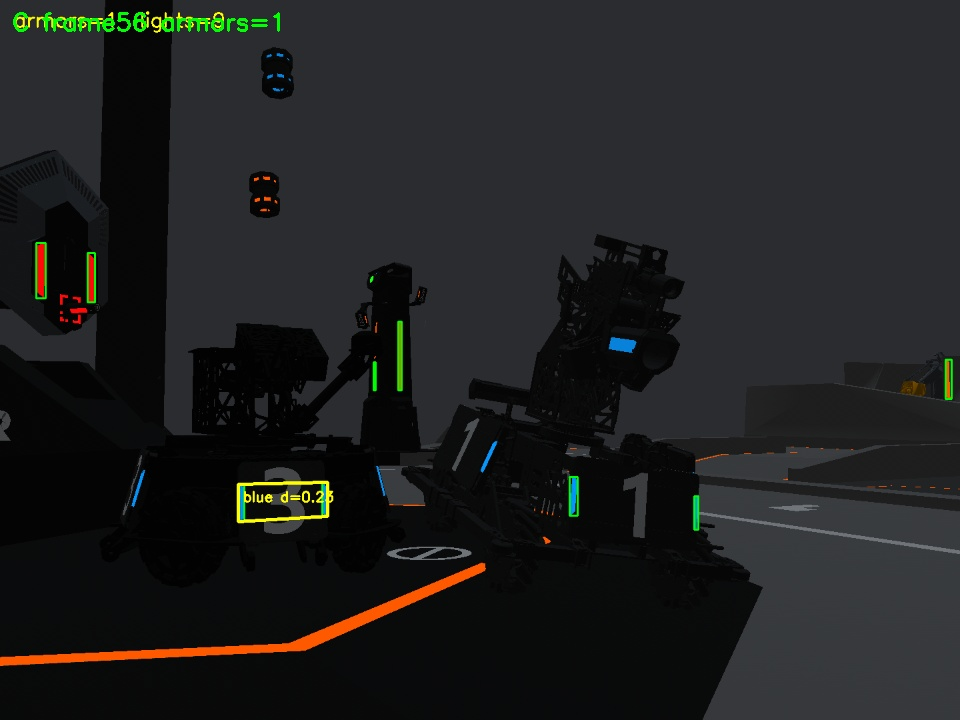
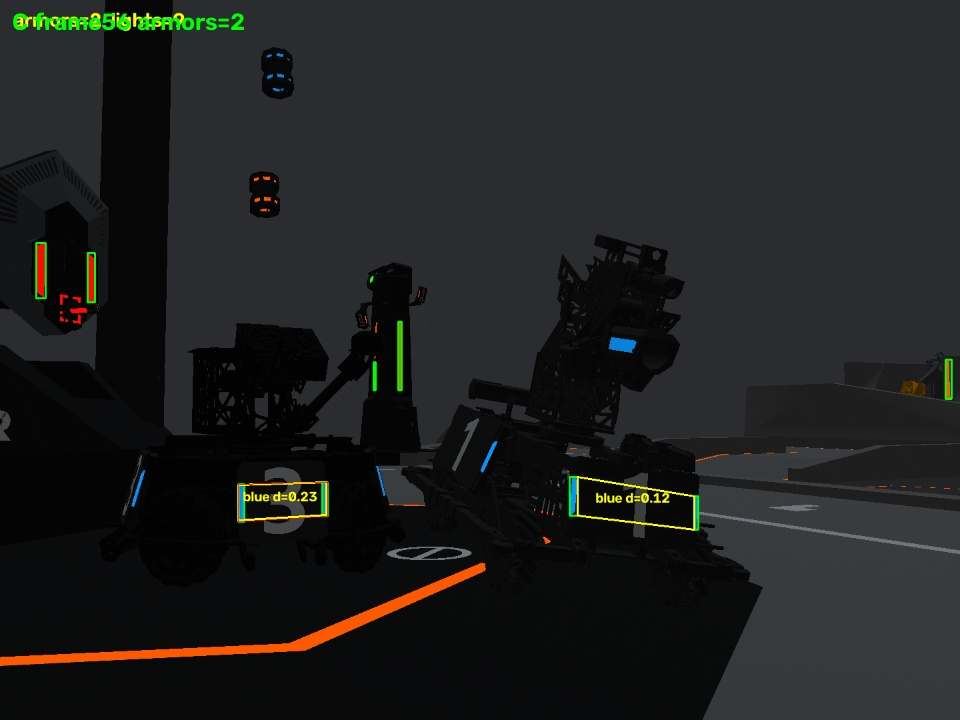
fix(S1): gap_ratio 3.0→4.2 + 灯宽一致性约束；E 检出率 18.3%→65.7%，真实链路闭环 38/38 全中
根因：斜视时装甲板投影变窄，两灯间距/高度比实测 3.29，被 gap_ratio 上限 3.0 卡掉
（灯条检到 6 个但配对 0 个 → live 检测率仅 ~2%）。

修改：
- DetectorParams.gap_ratio 上限 3.0 → 4.2
- 新增 max_dw=0.60（两灯宽度差/较宽者），控制放宽后的误检

效果（step=5 同 bag 对比）：
- E（大角度斜视）：18.3% → 65.7%（+47.4pp）
- A（同 bag 新旧参数）：89.1% → 93.1%；B/C/D 不变
- live 仿真场景检测率 ~2% → 99.9%

真实链路闭环实弹（不再真值驱动）：
detector_traditional → armor_solver(23.7Hz) → armor_tracker → trajectory_planner → fire
- 单发 20/20 = 100%，连发 18/18 = 100%，累计 38/38
→ 参考视频的“自瞄跟踪+开火+命中”效果已用我们自己的 ROS2 链路复现

指标 JSON：metrics/s1_traditional.json、metrics/s4_planner.json（live_sim_real_chain）
README：S1 数据表/失败场景、S4 真实链路表、I7/I8、录屏前开 preview 说明

diff --git a/vision_ws/src/rm_vision_probe/rm_vision_probe/detector.py b/vision_ws/src/rm_vision_probe/rm_vision_probe/detector.py
@@ -29,7 +29,8 @@ class DetectorParams:
         # 配对
         self.max_dh = kw.get("max_dh", 0.35)             # 两灯高度差 / 平均高
         self.max_dy = kw.get("max_dy", 0.55)             # 两灯中心 y 差 / 平均高
-        self.gap_ratio = kw.get("gap_ratio", (0.6, 3.0)) # 灯间距 / 平均高
+        self.max_dw = kw.get("max_dw", 0.60)             # 两灯宽度差 / 较宽者（斜视一致性）
+        self.gap_ratio = kw.get("gap_ratio", (0.6, 4.2)) # 灯间距 / 平均高（斜视时可达 3.3+）
         self.min_digit = kw.get("min_digit", 0.04)       # 数字区像素比例下限
         self.max_armors = kw.get("max_armors", 8)
 
@@ -185,7 +186,8 @@ def _pair(img, lights, p):
             dy = abs((y1 + h1 / 2) - (y2 + h2 / 2)) / max(hm, 1)
             dx = x2 - (x1 + w1)
             ratio = dx / max(hm, 1)
-            if dh > p.max_dh or dy > p.max_dy:
+            dw = abs(w1 - w2) / max(max(w1, w2), 1)
+            if dh > p.max_dh or dy > p.max_dy or dw > p.max_dw:
                 continue
             if not (p.gap_ratio[0] <= ratio <= p.gap_ratio[1]):
                 continue
